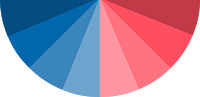
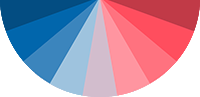
maj

diff --git a/js/views/Carousel.js b/js/views/Carousel.js
@@ -7,8 +7,9 @@ var Carousel = function(){
         w,
         h,
         indice_x = 0,
-        arrColors = ["004c84","0064ae","3784bf","6ba3d0",'9dc3df',"ffb9be","ff949f","ff717d","ff4c5a","c33844"];
-
+        //arrColors = ["004c84","0064ae","3784bf","6ba3d0",'9dc3df',"ffb9be","ff949f","ff717d","ff4c5a","c33844"];
+        arrColors = ["0b4e80", "0f68aa", "3f86bb", "9fc3dd", "d2bdcd", "ff96a1", "ff7381", "ff5062", "bf3c4a"];
+        
     this.init = function(){
         _this.format();
         _this.bindEvents();
@@ -33,12 +34,20 @@ var Carousel = function(){
         var _h = '';
         for(var i in model){
             var vote_count = model[i].getRatings().length;
-
+//console.log(model[i].getAverage());
             _h += '<div class="carousel_slide slideOut" id="slide-'+i+'" data-rating="'+model[i].getRatings()+'" data-average="'+model[i].getAverage()+'">';
                 _h += '<img src="'+model[i].getImg()+'" alt="">';
                 _h += '<div class="metas">';
-                    _h += vote_count+' votes';
+                    _h += '<div class="num">'+vote_count+'</div>';
+                    _h += '<div class="num_label">votes</div>';
                 _h += '</div>';
+
+                /*
+                _h += '<div class="report">';
+                    _h += '<div class="num"><span class="glyphicon glyphicon-flash"></span></div>';
+                    _h += '<div class="num_label">REPORT</div>';
+                _h += '</div>';
+                */
 
                 _h += '<div class="report"><span class="glyphicon glyphicon-flash"></span> REPORT</div>';
     
@@ -51,9 +60,6 @@ var Carousel = function(){
 
         
         setTimeout(function(){
-            
-            
-            
             
             $("#newest").removeClass('hidden').addClass('activePage');
             $("#loading").hide();
@@ -141,10 +147,10 @@ var Carousel = function(){
         var data = $slide.data();
         
         $('#rate span').text(data.average);
-
+console.log(data.average)
         var color = arrColors[data.average-1];
         $("#carousel_inner, #rate").css({backgroundColor:"#"+color});
-        $(".metas").css({color:"#"+color})
+        //$(".metas").css({color:"#"+color})
         $(".average").css({"border-color":"#"+color})
         
     };

diff --git a/js/ui/ModulePie.js b/js/ui/ModulePie.js
@@ -12,12 +12,14 @@ var ModulePie = function(callback){
         rate,
         color,
         offset = {},
-        timer;
+        timer,
+        arr = [];
 
     this.init = function(){
         //console.log("ModulePie ModulePie ModulePie ModulePie ModulePie ModulePie ModulePie");
         //arrColors = [19588,25774,3638463,7054288,10339295,16759230,16749727,16740733,16731226,12793924];
-        arrColors = [216450,91820,3900861,7185614,16749984,16740991,16731742,12663367];
+        //arrColors = [216450,91820,3900861,7185614,13811149,16749984,16740991,16731742,12663367];
+        arrColors = [216450, 91820, 3900861, 10404830, 13811149, 16749984, 16740991, 16731742, 12663367];
         offset.x = $("#pie").offset().left;
         offset.y = $("#pie").offset().top;
 //console.log(offset)
@@ -58,7 +60,7 @@ var ModulePie = function(callback){
         e.stopPropagation();
         touchX = e.targetTouches[0].pageX - offset.x;
         touchY = e.targetTouches[0].pageY - offset.y;
-        //_this.updateColor();
+        _this.updateColor();
     };
 
     this.handleTouchMove = function(e){
@@ -66,8 +68,7 @@ var ModulePie = function(callback){
         e.stopPropagation();
         touchX = e.targetTouches[0].pageX - offset.x;
         touchY = e.targetTouches[0].pageY - offset.y;
-//console.log(touchX, touchY)
-        //_this.updateColor();
+        _this.updateColor();
     };
 
     this.handleTouchEnd = function(e){
@@ -86,7 +87,7 @@ var ModulePie = function(callback){
 
         _this.updateColor();
 
-        //$("body").trigger("USER_HAS_RATED", [rate]);
+        $("body").trigger("USER_HAS_RATED", [rate]);
     };
 
     this.updateColor = function(){
@@ -98,7 +99,8 @@ var ModulePie = function(callback){
         var rgb = "rgb("+pixelData[0]+","+pixelData[1]+","+pixelData[2]+")";
         
         rate = arrColors.indexOf(color) + 1;    
-        console.log(rate)
+        //console.log(rate)
+        
         if(rate === 0)return; 
         //if(rate === 10)return; 
         //if(rate === 1)return; 

diff --git a/css/style.css b/css/style.css
@@ -19,9 +19,16 @@
 * {
     -webkit-tap-highlight-color: rgba(0,0,0,0); /* make transparent link selection, adjust last value opacity 0 to 1.0 */
 }
-*, *:before, *:after {-moz-box-sizing: border-box; -webkit-box-sizing: border-box; box-sizing: border-box;}
+*, *:before, *:after {
+    -moz-box-sizing: border-box; 
+    -webkit-box-sizing: border-box; 
+    box-sizing: border-box;
+    -webkit-font-smoothing:antialiased;
+    font-smoothing:antialiased;
+    text-rendering:optimizeLegibility;
+}
 
-/*
+
 @font-face {
     font-family: 'cousineregular';
     src: url('../fonts/cousine-regular-webfont.eot');
@@ -33,7 +40,7 @@
     font-weight: normal;
     font-style: normal;
 }
-*/
+
 
 @font-face {
     font-family: 'Monospace821BT-Bold';
@@ -208,7 +215,7 @@ h1 {
     overflow:visible;
     padding:0;
     text-align:center;
-    padding-top: 11px;
+    padding-top: 12px;
 }
 
 .showMenu{
@@ -245,11 +252,10 @@ h1 {
 
 .take_pic{
     position: absolute;
-    top: 7px;
+    top: 8px;
     right: 8px;
     font-size: 23px;
     width: 30px; height: 30px;
-    color: #ff4d42 !important;
 }
 
 /* ============================================ ANIME PANEL ============================================ */
@@ -347,6 +353,11 @@ a.error{background: red}
     font-weight: bold;
     width: 50%;
 }
+.metas .num{
+    font-size: 1cm;
+    line-height: 1cm;
+}
+
 .average{
     border-top: 1px solid white;
 }
@@ -359,6 +370,11 @@ a.error{background: red}
     font-weight: bold;
     color:rgb(255, 255, 255);
     color: #ff4d42;
+}
+.report .num{
+    font-size: 1cm;
+    line-height: 1cm;
+    text-align: right;
 }
 
 /* ============================================ PAGES ============================================ */

diff --git a/js/views/Capture.js b/js/views/Capture.js
@@ -57,11 +57,15 @@ if(navigator.camera){
         $("#loading").show();
         $("#capture").removeClass('hidden').addClass('activePage');
         
+
+
+
+        /*
         _this.render();
         _this.format();
         _this.onSuccess("http://s9.postimg.org/lko32v13z/best_ass_5.jpg");
         return;
-        
+        */
 
         
 
